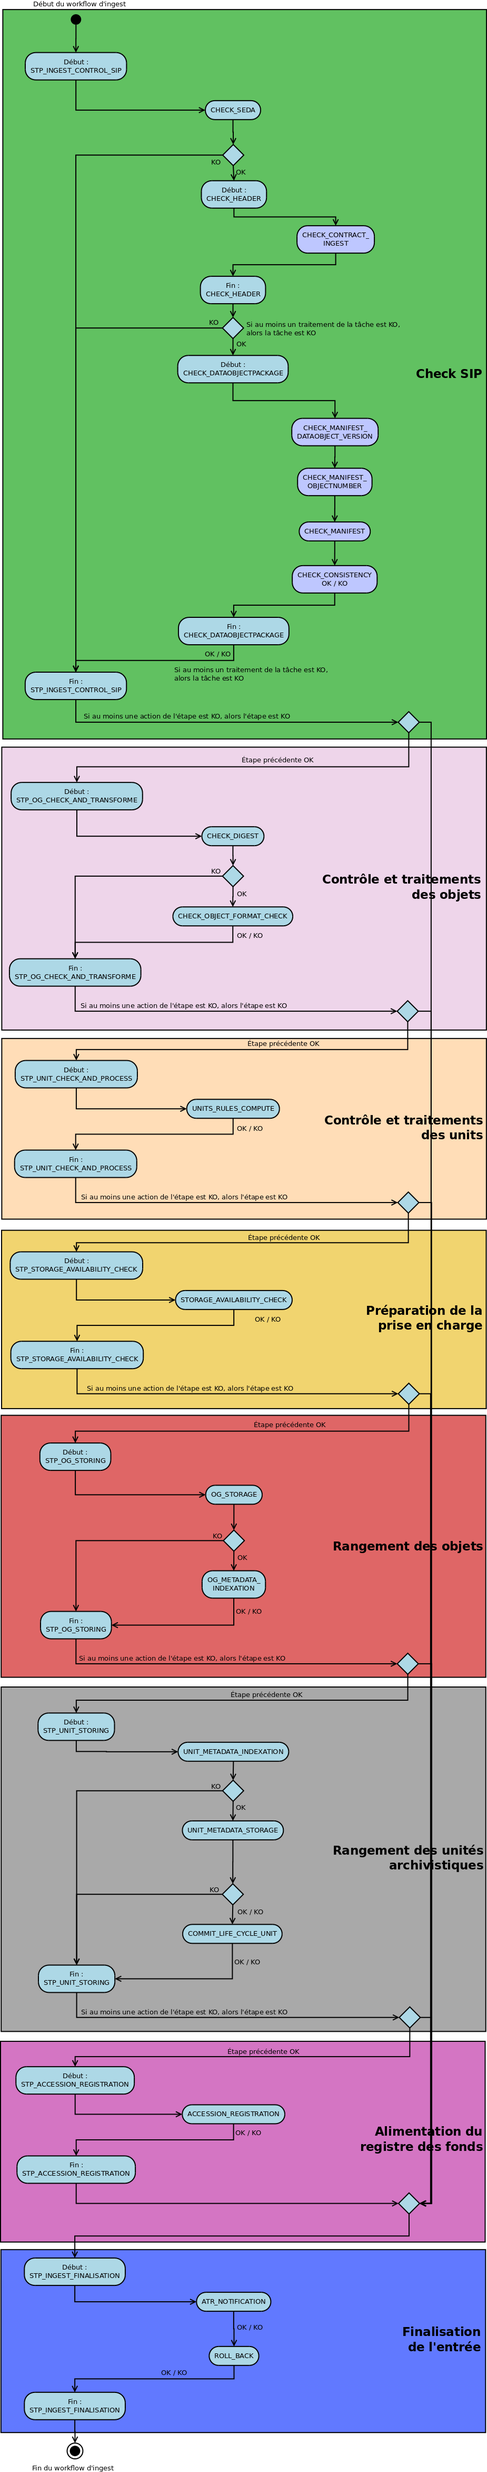
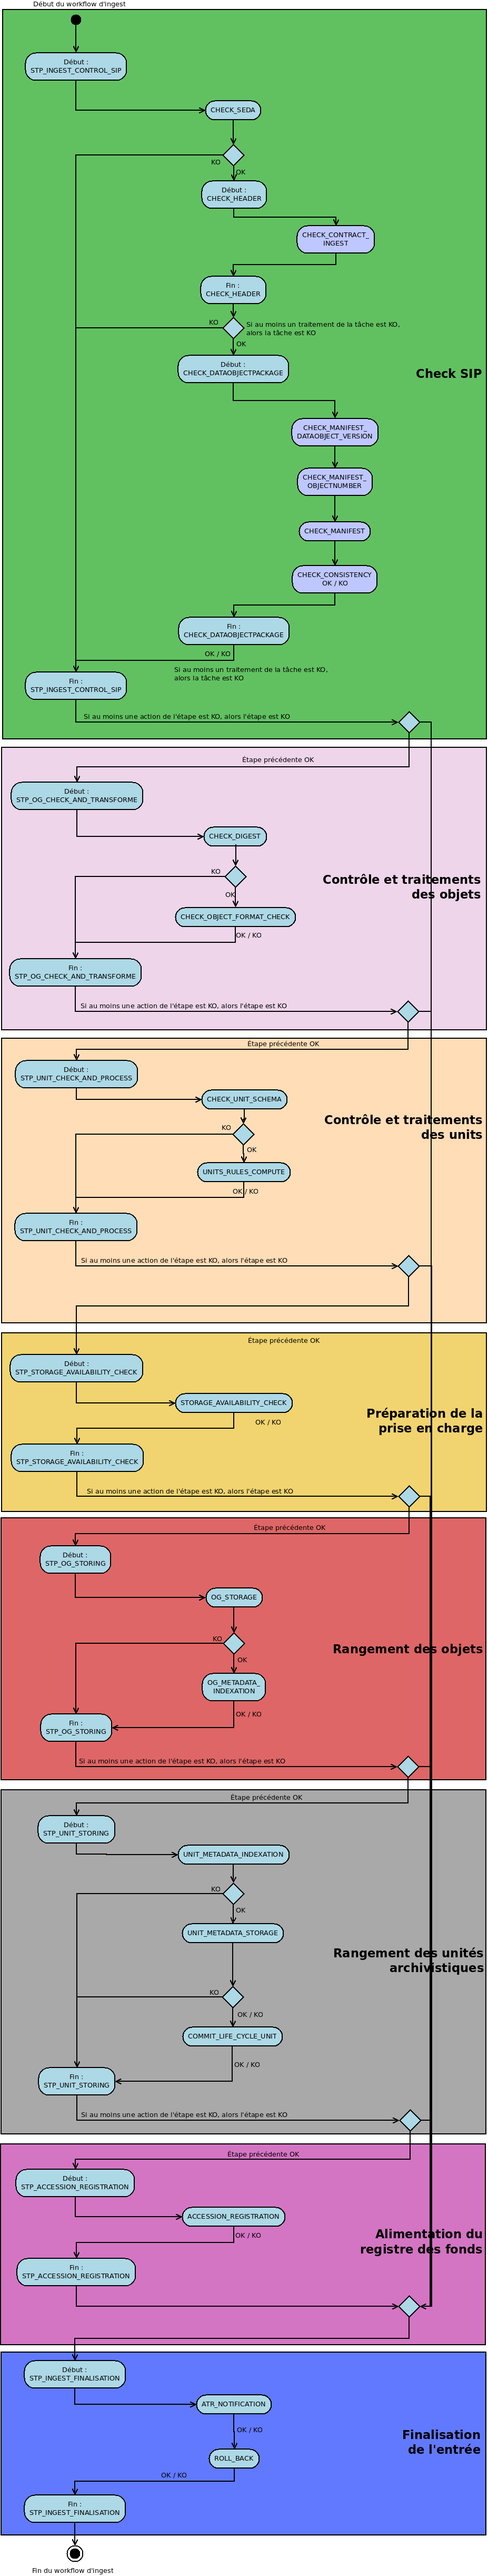
Item #1791 - workflow update - update workflow documentation after US#1791 - new action : check_unit_seda

Changed region(s): [[0.0, 0.0, 1.0, 0.9964], [0.0605, 0.9652, 0.2724, 1.0], [0.0605, 0.0, 0.2724, 0.0623]]

diff --git a/doc/fr/workflow-model/workflow.rst b/doc/fr/workflow-model/workflow.rst
@@ -236,6 +236,21 @@ Identification des formats (OG_OBJECTS_FORMAT_CHECK)
 Contrôle et traitements des unités archivistiques (STP_OG_CHECK_AND_TRANSFORME)
 ===============================================================================
 
+Vérification globale de l'unité archivistique (CHECK_UNIT_SCHEMA)
+~~~~~~~~~~~~~~~~~~~~~~~~~~~~~~~~~~~~~~~~~~~~~~~~~~~~~~~~~~~~~~~~~~~~~~~~~~~~~~~~~~~~~~~
+
++ **Règle** :  Contrôle de la cohérence intellectuelle des informations des unités archivistiques du bordereau.
+
++ **Type** : bloquant.
+
++ **Statuts** :
+
+  - OK : tous les champs de l'unité archivistique sont valides (CHECK_UNIT_SCHEMA.OK=Succès de la vérification globale de l''unité archivistique).
+
+  - KO : au moins un champ de l'unité archivistique n'est pas valide (titre vide, date incorrecte...) (CHECK_UNIT_SCHEMA.KO=Échec lors de la vérification globale de l''unité archivistique).
+
+  - FATAL : la vérification de l'unité archivistique n'a pu être effectuée suite à une erreur système (CHECK_UNIT_SCHEMA.FATAL=Erreur fatale de la vérification globale de l''unité archivistique).
+
 Application des règles de gestion et calcul des dates d'échéances (UNITS_RULES_COMPUTE)
 ~~~~~~~~~~~~~~~~~~~~~~~~~~~~~~~~~~~~~~~~~~~~~~~~~~~~~~~~~~~~~~~~~~~~~~~~~~~~~~~~~~~~~~~
 
